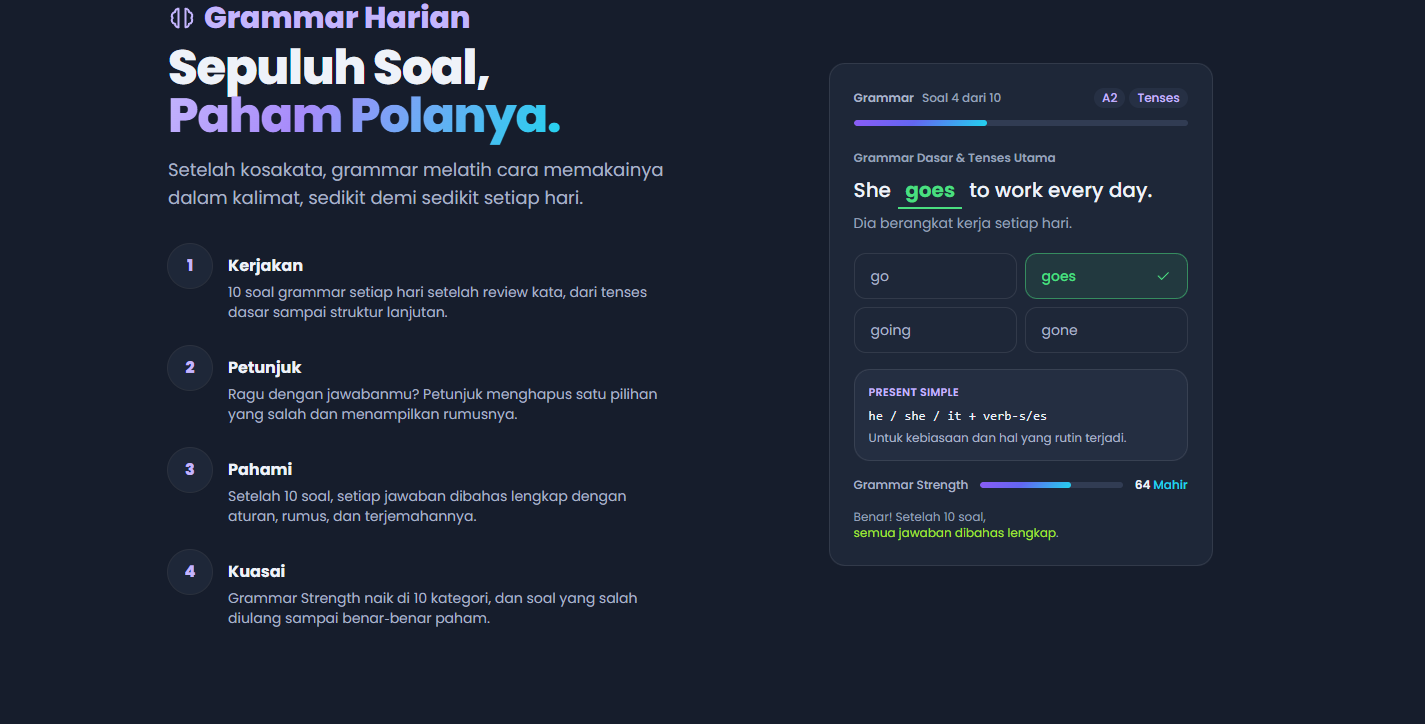
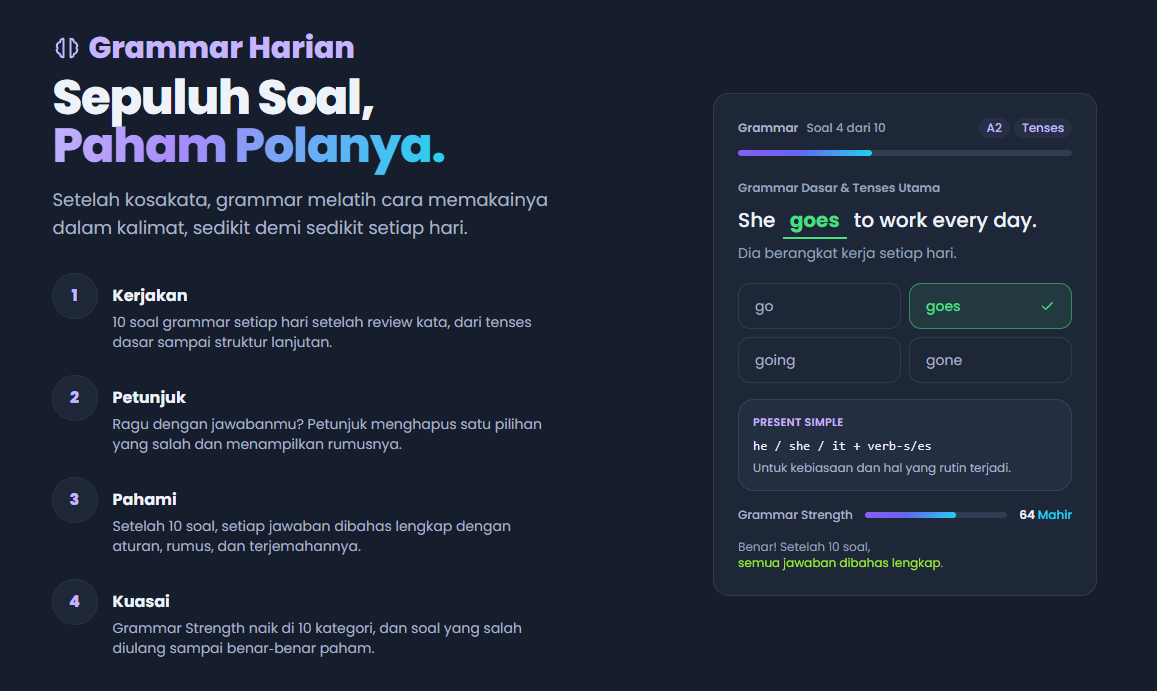
Enlarge closing quote, replace two Kata10 slides
- Closing quote: larger type, centred, balanced lines at every width
- Kata10 carousel: new Grammar Harian landing capture (slide 3) and
  new Progress page capture (slide 11)

diff --git a/src/data/site.ts b/src/data/site.ts
@@ -338,7 +338,7 @@ export const projects: Project[] = [
         { group: 'Learn path', file: 'app-belajar-demo.png', alt: 'Belajar, from the product demo: word card for improve with its meaning quiz answered' },
         { group: 'Learn path', file: 'app-review-demo.png', alt: 'Review, from the product demo: nine words ready to review, scheduled automatically, with the four strength stages' },
         { group: 'Learn path', file: 'app-grammar.jpg', alt: 'Grammar: first of ten daily questions, a fill-in on pronouns with four choices and a paid hint' },
-        { group: 'Learn path', file: 'app-learning-path.jpg', alt: 'Progress page showing grammar mastery, the learning path stages and progress per category' },
+        { group: 'Learn path', file: 'app-learning-path.png', alt: 'Progress page with streak, vocabulary strength, daily activity, grammar mastery, the learning path stages and progress per category' },
         { group: 'Play Zone', file: 'app-play-zone.png', alt: 'Play Zone page with the Vocabulary Adventure and Daily Arcade games, both open to play' },
         { group: 'Play Zone', file: 'app-adventure-island.png', alt: 'Explorer Island in Vocabulary Adventure: the weekly island map with ten numbered checkpoints' },
         { group: 'Play Zone', file: 'app-weekly-adventure.png', alt: 'Petualangan Mingguan: seven themed chapters, one per day, each with its own game mode' },

diff --git a/src/styles/global.css b/src/styles/global.css
@@ -1094,18 +1094,20 @@ form.contact {
 
 /* Closing note above the footer */
 .closing {
-  padding-block: 8px 56px;
+  padding-block: clamp(24px, 4vw, 48px) clamp(56px, 8vw, 96px);
   text-align: center;
 }
 .closing blockquote {
-  margin: 0 auto;
-  max-width: 62ch;
-}
-.closing p {
   margin: 0;
+}
+/* Centred in the content column; lines are balanced so they break evenly at every width. */
+.closing p {
+  margin: 0 auto;
+  max-width: 26em;
   font-family: var(--font-display);
-  font-size: clamp(18px, 2.2vw, 24px);
-  line-height: 1.5;
+  font-size: clamp(22px, 3.6vw, 40px);
+  line-height: 1.35;
+  letter-spacing: -0.01em;
   color: var(--text);
   text-wrap: balance;
 }
